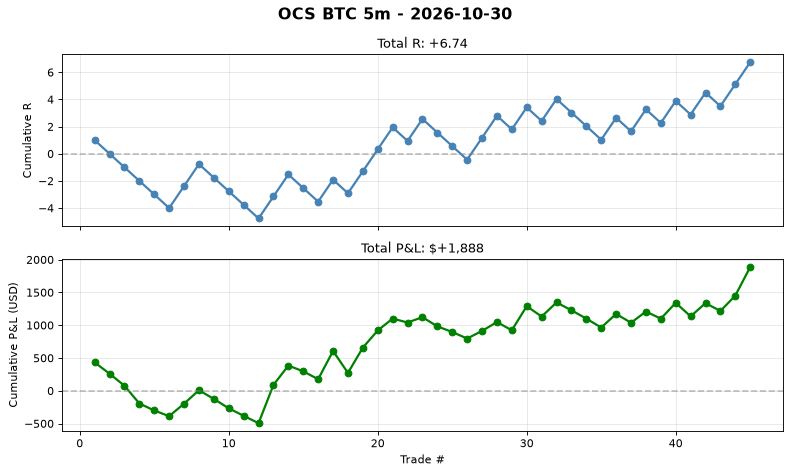
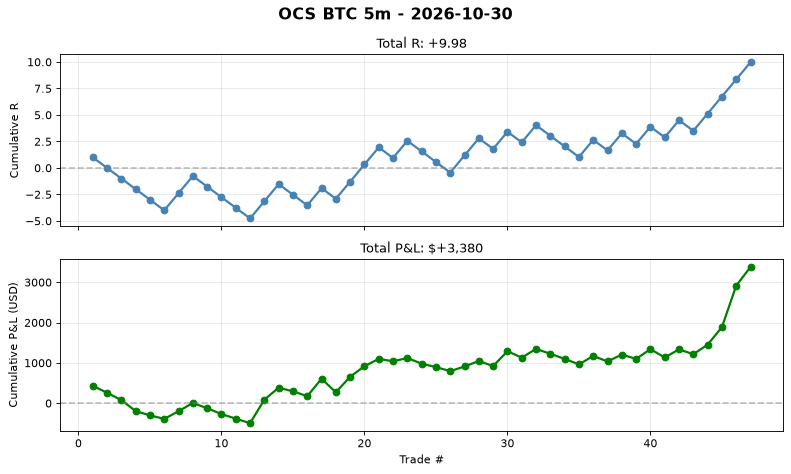
auto(ocs-btc): signal log 2026-10-30T00:54 trades=47

diff --git a/automation/reports/ocs_btc_5m/daily/2026-10-30.md b/automation/reports/ocs_btc_5m/daily/2026-10-30.md
@@ -1,5 +1,37 @@
 # OCS BTC 5m - 2026-10-30
 
-**No trades today.**
+## Summary
+- **Trades**: 2 (2W / 0L)
+- **Win Rate**: 100.0%
+- **Total R**: +3.24R
+- **Total P&L**: $+1,492
+- **Avg R**: +1.62R
+- **Profit Factor**: 1.4
 
-Cumulative stats: 45 trades | WR 44.4% | avg R 0.15
+## Exit Breakdown
+- T1 (+1.0R): 1
+- T2 (+1.618R): 21
+- T3 (+2.618R): 0
+- T4 (+3.618R): 0
+- T5 (+5.0R): 0
+- SL (-1.0R): 25
+
+## Best Trade
+- **SHORT** at 79,245 -> T2 78,216
+- R = +1.62, P&L = $+1,028
+- Held for 6 bars
+
+## Worst Trade
+- **SHORT** at 79,245 -> T2 78,216
+- R = +1.62, P&L = $+1,028
+- Held for 6 bars
+
+## Cumulative Stats (Lifetime)
+- Total trades: 47
+- WR: 46.8%
+- Avg R: 0.212
+- Total R: +9.98R
+- Profit Factor: 1.4
+
+## Chart
+See `daily/2026-10-30.png` for cumulative P&L curve.
